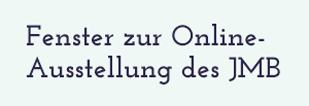
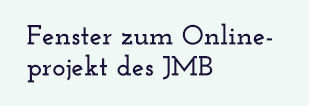
update

Changed region(s): [[0.0874, 0.5094, 0.932, 0.8208], [0.0874, 0.1981, 0.9029, 0.4528]]

diff --git a/templates/museumsportal/cms/series_with_featured.html b/templates/museumsportal/cms/series_with_featured.html
@@ -5,9 +5,9 @@
 {% block content %}
 	<div class="marginal">
 	    <div class="featured_infoblock">
-          <span class="jmb-head">Fenster zur Online-<br/>Ausstellung des JMB</span>
+          <span class="jmb-head">Fenster zum Online-<br/>Projekt des JMB</span>
 	        <span class="jmb-body">{% infoblock "series_featured" %}</span>
-          <span class="jmb-logo"></span>
+          <a href="http://www.jmberlin.de/1933/" target="_blank"><span class="jmb-logo"></span></a>
 	    </div>
 		<ul id="sub_menu">
             {% show_menu_below_id "series" 0 100 100 100 "menu/side_menu.html" %}
